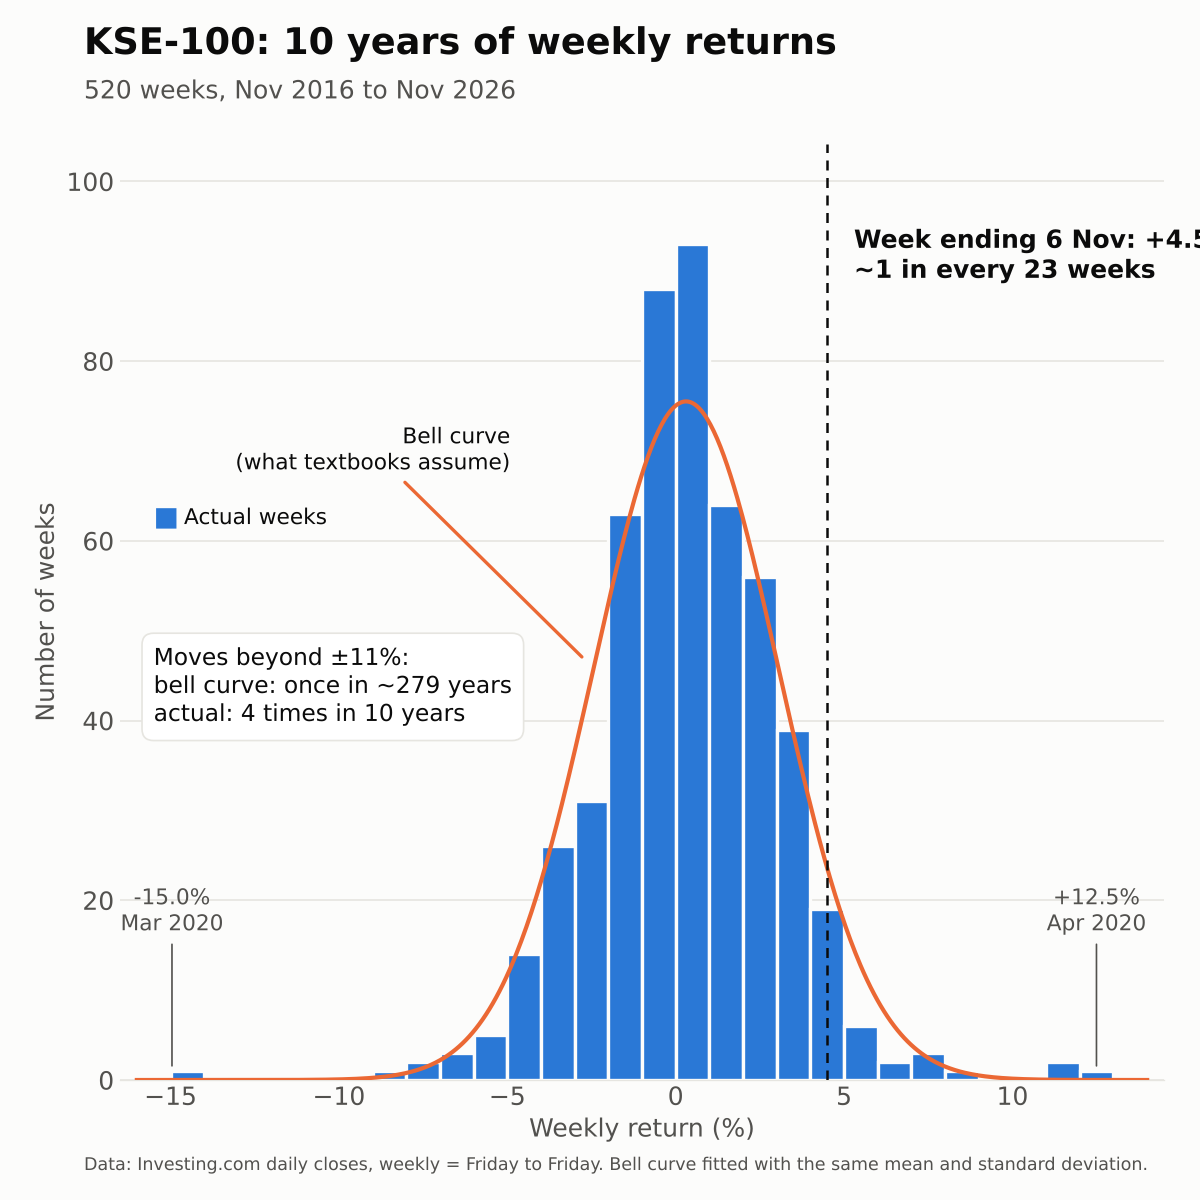
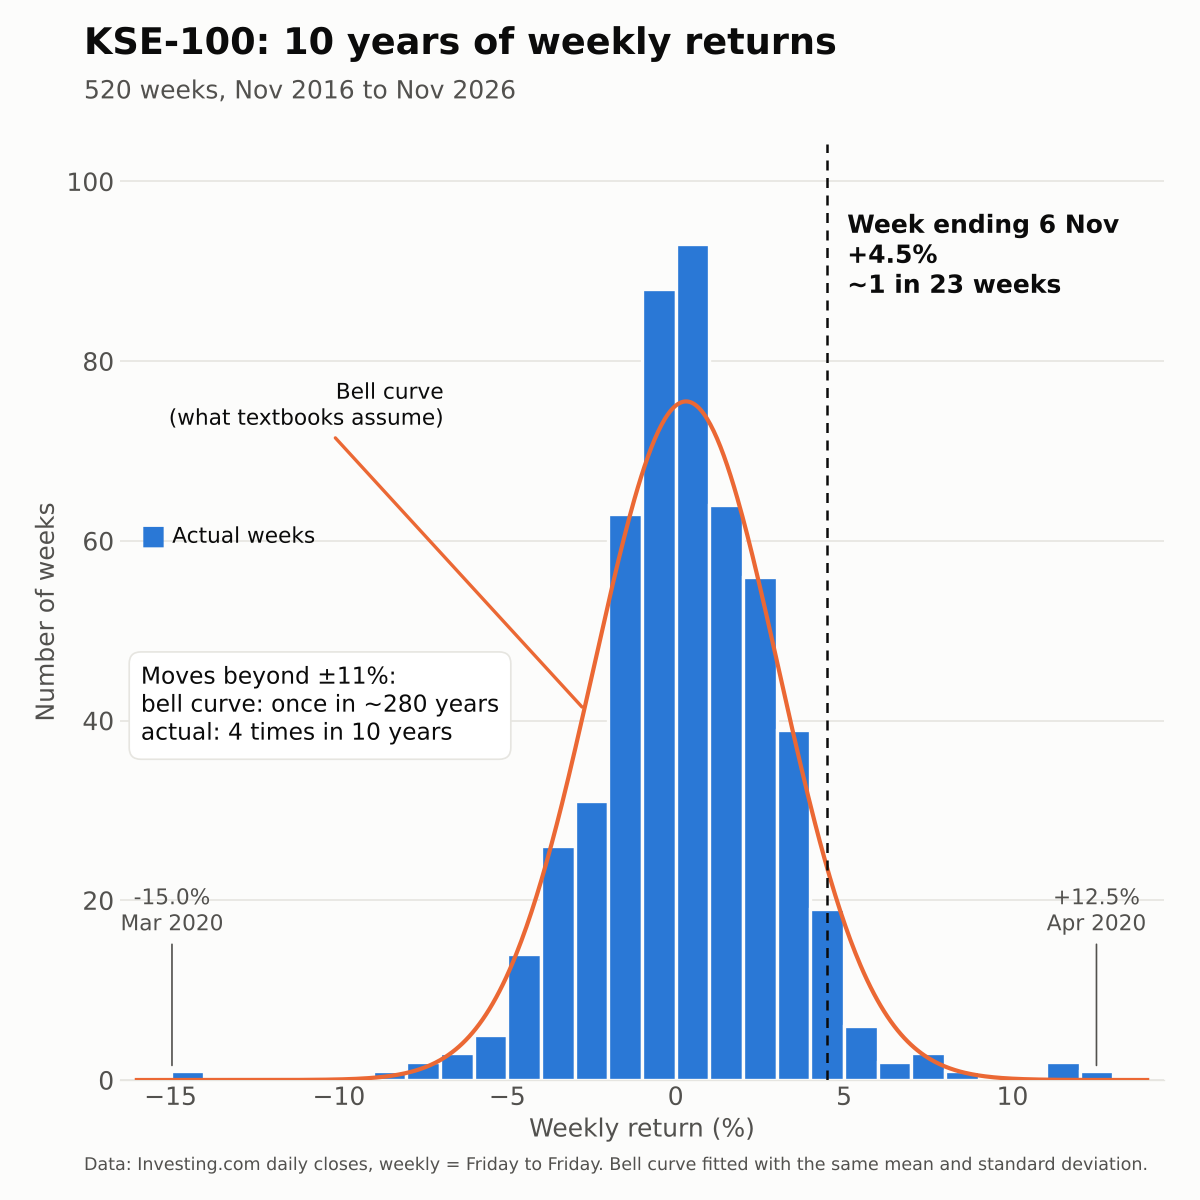
Fix histogram curve scaling, use unbiased skew/kurtosis, clean up comments

diff --git a/2026-11-kse100-fat-tails/make_chart.py b/2026-11-kse100-fat-tails/make_chart.py
@@ -1,9 +1,4 @@
-"""
-Histogram of KSE-100 weekly returns against a fitted bell curve.
-
-Usage:
-    python make_chart.py data/kse100.csv --week 2026-11-06 -o kse100_weekly_returns.png
-"""
+"""Histogram of KSE-100 weekly returns against a fitted normal distribution."""
 import argparse
 
 import numpy as np
@@ -20,23 +15,29 @@ BARS = "#2a78d6"
 CURVE = "#eb6834"
 
 
-def main() -> None:
-    ap = argparse.ArgumentParser()
-    ap.add_argument("csv")
-    ap.add_argument("--week")
-    ap.add_argument("--tail", type=float, default=0.11)
-    ap.add_argument("--keep-today", action="store_true")
+def parse_args() -> argparse.Namespace:
+    ap = argparse.ArgumentParser(description=__doc__)
+    ap.add_argument("csv", help="Investing.com daily historical data CSV")
+    ap.add_argument("--week", help="Friday date of the week (default: latest complete week)")
+    ap.add_argument("--tail", type=float, default=0.11, help="tail threshold as a decimal (default: 0.11)")
+    ap.add_argument("--bin-width", type=float, default=1.0, help="bin width in percentage points (default: 1.0)")
+    ap.add_argument("--keep-today", action="store_true", help="keep a row dated today")
     ap.add_argument("-o", "--out", default="kse100_weekly_returns.png")
-    args = ap.parse_args()
+    return ap.parse_args()
 
+
+def main() -> None:
+    args = parse_args()
     s = summarise(weekly_returns(load_closes(args.csv, args.keep_today)))
     week = resolve_week(s.returns, args.week)
+
     r = s.returns * 100
     mu, sd, n = s.mean * 100, s.std * 100, s.n
+    bw = args.bin_width
     v = r.loc[week]
     one_in = n / int((s.returns >= s.returns.loc[week]).sum())
     tail_pct = args.tail * 100
-    tail_years = 1 / (bell_curve_tail_prob(s, args.tail) * 52)
+    tail_years = round(1 / (bell_curve_tail_prob(s, args.tail) * 52), -1)
     tail_actual = int((r.abs() > tail_pct).sum())
     years = (r.index[-1] - r.index[0]).days / 365.25
 
@@ -46,36 +47,40 @@ def main() -> None:
     ax.set_facecolor(SURFACE)
 
     lo, hi = np.floor(r.min()) - 1, np.ceil(r.max()) + 1
-    bins = np.arange(lo, hi + 1, 1.0)
-    counts, *_ = ax.hist(r, bins=bins, color=BARS, edgecolor=SURFACE, linewidth=2, zorder=2)
+    counts, *_ = ax.hist(r, bins=np.arange(lo, hi + bw, bw), color=BARS, edgecolor=SURFACE,
+                         linewidth=2, zorder=2)
     top = counts.max() * 1.12
 
     x = np.linspace(lo, hi, 600)
-    ax.plot(x, stats.norm.pdf(x, mu, sd) * n, color=CURVE, linewidth=2.5, zorder=3)
+    ax.plot(x, stats.norm.pdf(x, mu, sd) * n * bw, color=CURVE, linewidth=2.5, zorder=3)
 
     ax.axvline(v, color=INK, linewidth=1.5, linestyle=(0, (4, 3)), zorder=4)
-    label = f"Week ending {week.day} {week:%b}: {v:+.1f}%"
+    label = f"Week ending {week.day} {week:%b}\n{v:+.1f}%"
     if v > 0:
-        label += f"\n~1 in every {one_in:.0f} weeks"
-    ax.text(v + 0.8, top * 0.88, label, color=INK, fontsize=15, fontweight="bold", va="center")
+        label += f"\n~1 in {one_in:.0f} weeks"
+    room_right = (hi + 0.5 - v) / (hi - lo + 1)
+    on_right = room_right >= 0.25
+    ax.text(v + 0.6 if on_right else v - 0.6, top * 0.88, label, color=INK, fontsize=15,
+            fontweight="bold", va="center", ha="left" if on_right else "right", zorder=5)
 
     for d in (r.idxmin(), r.idxmax()):
-        ax.annotate(f"{r[d]:+.1f}%\n{d:%b %Y}", xy=(r[d], 1.2), xytext=(r[d], top * 0.16),
+        ax.annotate(f"{r[d]:+.1f}%\n{d:%b %Y}", xy=(r[d], top * 0.012), xytext=(r[d], top * 0.16),
                     color=INK_2, fontsize=13, ha="center",
                     arrowprops=dict(arrowstyle="-", color=INK_2, lw=1))
 
-    ax.text(lo + 0.5, top * 0.42,
+    ax.text(0.02, 0.4,
             f"Moves beyond ±{tail_pct:.0f}%:\nbell curve: once in ~{tail_years:.0f} years\n"
             f"actual: {tail_actual} times in {years:.0f} years",
-            color=INK, fontsize=14, va="center",
+            transform=ax.transAxes, color=INK, fontsize=14, va="center",
             bbox=dict(boxstyle="round,pad=0.5", fc="white", ec=GRID))
 
-    peak = stats.norm.pdf(mu, mu, sd) * n
-    ax.annotate("Bell curve\n(what textbooks assume)", xy=(mu - sd * 1.1, peak * 0.62),
-                xytext=(mu - sd * 1.9, peak * 0.9), color=INK, fontsize=13, ha="right",
-                arrowprops=dict(arrowstyle="-", color=CURVE, lw=2))
-    ax.text(lo + 0.5, top * 0.6, "■", color=BARS, fontsize=16, va="center")
-    ax.text(lo + 1.4, top * 0.6, "Actual weeks", color=INK, fontsize=13, va="center")
+    curve_x = mu - sd * 1.1
+    curve_y = stats.norm.pdf(curve_x, mu, sd) * n * bw
+    ax.annotate("Bell curve\n(what textbooks assume)", xy=(curve_x, curve_y),
+                xytext=(0.31, 0.72), textcoords="axes fraction", color=INK, fontsize=13,
+                ha="right", va="center", arrowprops=dict(arrowstyle="-", color=CURVE, lw=2))
+    ax.text(0.02, 0.58, "■", transform=ax.transAxes, color=BARS, fontsize=16, va="center")
+    ax.text(0.05, 0.58, "Actual weeks", transform=ax.transAxes, color=INK, fontsize=13, va="center")
 
     ax.set_xlim(lo - 0.5, hi + 0.5)
     ax.set_ylim(0, top)

diff --git a/2026-11-kse100-fat-tails/analysis.py b/2026-11-kse100-fat-tails/analysis.py
@@ -1,34 +1,10 @@
-"""
-How unusual was a given KSE-100 week? Weekly return distribution vs a bell curve.
-
-Usage:
-    python analysis.py data/kse100.csv                    # latest complete week
-    python analysis.py data/kse100.csv --week 2026-11-06  # a specific week (its Friday)
-
-Input: Investing.com "Historical Data" CSV for Karachi 100 (daily),
-columns Date (MM/DD/YYYY) and Price (comma thousands separators).
-
-Steps
-  1. Load daily closes. Rows dated today are dropped, because during market
-     hours Investing.com shows an intraday price as today's close.
-  2. Weekly return for week w:  r_w = P_w / P_(w-1) - 1
-     P_w = last closing price in the Mon-Fri week (labelled by its Friday).
-     The final week is dropped if it has not finished yet.
-  3. Distribution: mean, standard deviation, skew, excess kurtosis
-     (excess kurtosis is 0 for a bell curve; above 0 means fat tails).
-  4. The chosen week: z-score = (r - mean) / std, percentile, and how often
-     weeks at least that good occur.
-  5. Tails: actual count of |z| > k vs what a bell curve with the same mean
-     and std expects: N * P(|Z| > k).
-  6. Jarque-Bera test of normality.
-"""
+"""KSE-100 weekly return distribution compared with a fitted normal distribution."""
 from __future__ import annotations
 
 import argparse
 from dataclasses import dataclass
 from datetime import date
 
-import numpy as np
 import pandas as pd
 from scipy import stats
 
@@ -44,6 +20,7 @@ class Summary:
 
 
 def load_closes(path: str, keep_today: bool = False) -> pd.Series:
+    """Daily closes from an Investing.com CSV, oldest first, excluding today's intraday row."""
     df = pd.read_csv(path, thousands=",", encoding="utf-8-sig")
     df["Date"] = pd.to_datetime(df["Date"], format="%m/%d/%Y")
     if not keep_today:
@@ -55,20 +32,26 @@ def load_closes(path: str, keep_today: bool = False) -> pd.Series:
 
 
 def weekly_returns(close: pd.Series) -> pd.Series:
+    """Simple returns between the last closes of consecutive Mon-Fri weeks, labelled by Friday."""
     weekly_close = close.resample("W-FRI").last().dropna()
-    # Drop the last week if its Friday is after the last data point (unfinished).
     if weekly_close.index[-1] > close.index[-1]:
         weekly_close = weekly_close.iloc[:-1]
     return weekly_close.pct_change().dropna().rename("weekly_return")
 
 
 def summarise(r: pd.Series) -> Summary:
-    return Summary(r, len(r), r.mean(), r.std(ddof=1), float(stats.skew(r)),
-                   float(stats.kurtosis(r)))
+    return Summary(
+        returns=r,
+        n=len(r),
+        mean=r.mean(),
+        std=r.std(ddof=1),
+        skew=float(stats.skew(r, bias=False)),
+        excess_kurtosis=float(stats.kurtosis(r, bias=False)),
+    )
 
 
 def bell_curve_tail_prob(s: Summary, threshold: float) -> float:
-    """P(|weekly return| > threshold) under a normal with the sample mean/std."""
+    """P(|weekly return| > threshold) under a normal with the sample mean and std."""
     return float(stats.norm.sf(threshold, s.mean, s.std) + stats.norm.cdf(-threshold, s.mean, s.std))
 
 
@@ -109,22 +92,22 @@ def report(s: Summary, week: pd.Timestamp, tail_threshold: float) -> None:
     print(f"\nJarque-Bera = {jb.statistic:.0f}, p = {jb.pvalue:.1e}")
 
 
-def parse_args() -> argparse.Namespace:
-    ap = argparse.ArgumentParser(description=__doc__.split("\n")[1])
-    ap.add_argument("csv")
-    ap.add_argument("--week", help="Friday date of the week to examine (default: latest complete week)")
-    ap.add_argument("--tail", type=float, default=0.11, help="tail threshold, e.g. 0.11 for ±11%%")
-    ap.add_argument("--keep-today", action="store_true", help="keep a row dated today")
-    return ap.parse_args()
-
-
 def resolve_week(r: pd.Series, week: str | None) -> pd.Timestamp:
     if week is None:
         return r.index[-1]
     ts = pd.Timestamp(week)
     if ts not in r.index:
-        raise SystemExit(f"{week} is not a week label; use the week's Friday date")
+        raise SystemExit(f"{week} is not a week label; expected the week's Friday date")
     return ts
+
+
+def parse_args() -> argparse.Namespace:
+    ap = argparse.ArgumentParser(description=__doc__)
+    ap.add_argument("csv", help="Investing.com daily historical data CSV")
+    ap.add_argument("--week", help="Friday date of the week (default: latest complete week)")
+    ap.add_argument("--tail", type=float, default=0.11, help="tail threshold as a decimal (default: 0.11)")
+    ap.add_argument("--keep-today", action="store_true", help="keep a row dated today")
+    return ap.parse_args()
 
 
 if __name__ == "__main__":

diff --git a/2026-11-cpi-base-effects/base_effects.py b/2026-11-cpi-base-effects/base_effects.py
@@ -1,27 +1,15 @@
-"""
-Base-effect projection for Pakistan CPI (YoY).
+"""Base-effect projection of Pakistan's year-on-year CPI inflation (PBS national CPI, base 2015-16)."""
 
-Identity used:
-    (1 + YoY_t) = (1 + YoY_{t-1}) * (1 + MoM_t) / (1 + MoM_{t-12})
+YOY_OCT_2026 = 0.0961  # PBS, October 2026
 
-So next month's YoY depends on only two things:
-    1. the new month's MoM (unknown, so we use scenarios)
-    2. the MoM from the same month last year (known, this is the "base")
-
-Source: PBS monthly CPI releases (national CPI, base 2015-16).
-"""
-
-# Latest known YoY (October 2026, PBS)
-YOY_OCT_2026 = 0.0961
-
-# MoM of the months that will leave the 12-month window (PBS)
+# Month-on-month CPI changes leaving the 12-month window (PBS)
 BASE_MOM = {
-    "Nov": 0.0040,   # Nov 2025, reported as 0.4% (rounded)
-    "Dec": -0.0045,  # Dec 2025, PBS press release: -0.45%
-    "Jan": 0.0039,   # Jan 2026, PBS monthly review: +0.39%
+    "Nov": 0.0040,   # Nov 2025, published rounded to 0.4%
+    "Dec": -0.0045,  # Dec 2025, PBS press release
+    "Jan": 0.0039,   # Jan 2026, PBS monthly review
 }
 
-# Scenarios for the new months' MoM (assumed constant across Nov-Jan)
+# Month-on-month CPI change assumed for each new month, Nov 2026 to Jan 2027
 SCENARIOS = {
     "Prices flat (0.0%)": 0.0000,
     "Same as base (~0.4%)": 0.0040,
@@ -30,8 +18,8 @@ SCENARIOS = {
 }
 
 
-def project(yoy_start: float, new_mom: float, base: dict) -> list[tuple[str, float]]:
-    """Roll the YoY forward one month at a time."""
+def project(yoy_start: float, new_mom: float, base: dict[str, float]) -> list[tuple[str, float]]:
+    """YoY path from (1 + YoY_t) = (1 + YoY_t-1) * (1 + MoM_t) / (1 + MoM_t-12)."""
     path, yoy = [], yoy_start
     for month, old_mom in base.items():
         yoy = (1 + yoy) * (1 + new_mom) / (1 + old_mom) - 1
@@ -40,7 +28,7 @@ def project(yoy_start: float, new_mom: float, base: dict) -> list[tuple[str, flo
 
 
 def breakeven_mom(yoy_prev: float, yoy_target: float, old_mom: float) -> float:
-    """MoM needed in the new month to land exactly on yoy_target."""
+    """Month-on-month change that produces yoy_target."""
     return (1 + yoy_target) * (1 + old_mom) / (1 + yoy_prev) - 1
 
 
@@ -49,17 +37,14 @@ if __name__ == "__main__":
 
     for name, mom in SCENARIOS.items():
         path = project(YOY_OCT_2026, mom, BASE_MOM)
-        line = "  ".join(f"{m}: {y:.2%}" for m, y in path)
-        print(f"{name:<28} {line}")
+        print(f"{name:<28} " + "  ".join(f"{m}: {y:.2%}" for m, y in path))
 
-    # MoM needed in Nov 2026 to keep YoY unchanged at 9.61%
     be = breakeven_mom(YOY_OCT_2026, YOY_OCT_2026, BASE_MOM["Nov"])
-    print(f"\nNov MoM needed to hold YoY at 9.61%: {be:.2%}")
+    print(f"\nNov MoM that holds YoY at {YOY_OCT_2026:.2%}: {be:.2%}")
 
-    # Cumulative Nov-Jan MoM needed so Jan 2027 YoY <= 9.61%
     base_cum = 1.0
     for m in BASE_MOM.values():
         base_cum *= 1 + m
-    print(f"Cumulative base (Nov25-Jan26): {base_cum - 1:.2%}")
-    print("=> Jan 2027 YoY stays <= 9.61% only if prices rise less than "
-          f"{base_cum - 1:.2%} in total over Nov-Jan.")
+    print(f"Cumulative base, Nov 2025 to Jan 2026: {base_cum - 1:.2%}")
+    print(f"Jan 2027 YoY stays at or below {YOY_OCT_2026:.2%} only if prices rise "
+          f"less than {base_cum - 1:.2%} in total over Nov to Jan.")

diff --git a/2026-11-kse100-fat-tails/README.md b/2026-11-kse100-fat-tails/README.md
@@ -9,7 +9,7 @@ The KSE-100 gained 4.49% in the week ending 6 November 2026, its best week in si
 - **The rally was ordinary.** +4.49% is the 95.6th percentile. 23 of 520 weeks were as good or better, about one every 23 weeks.
 - **The extremes are not.** Weekly moves beyond ±11% happened 4 times in 10 years. A bell curve with the same mean and standard deviation expects that about once in 280 years.
 - **Fat tails, thin shoulders.** Moves beyond 3 standard deviations (±8.2%) happened 4.3x more often than a bell curve predicts, while moderately large moves (2 to 3 std) happened slightly *less* often.
-- Excess kurtosis is 3.1 (a bell curve is 0). The Jarque-Bera test rejects normality (p ≈ 3e-46).
+- Excess kurtosis is 3.2 (a bell curve is 0). The Jarque-Bera test rejects normality (p ≈ 3e-46).
 
 | Statistic | Value |
 |---|---|
@@ -17,7 +17,7 @@ The KSE-100 gained 4.49% in the week ending 6 November 2026, its best week in si
 | Mean weekly return | +0.31% |
 | Standard deviation | 2.75% |
 | Skew | -0.02 |
-| Excess kurtosis | 3.11 |
+| Excess kurtosis | 3.15 |
 
 ## Method
 
